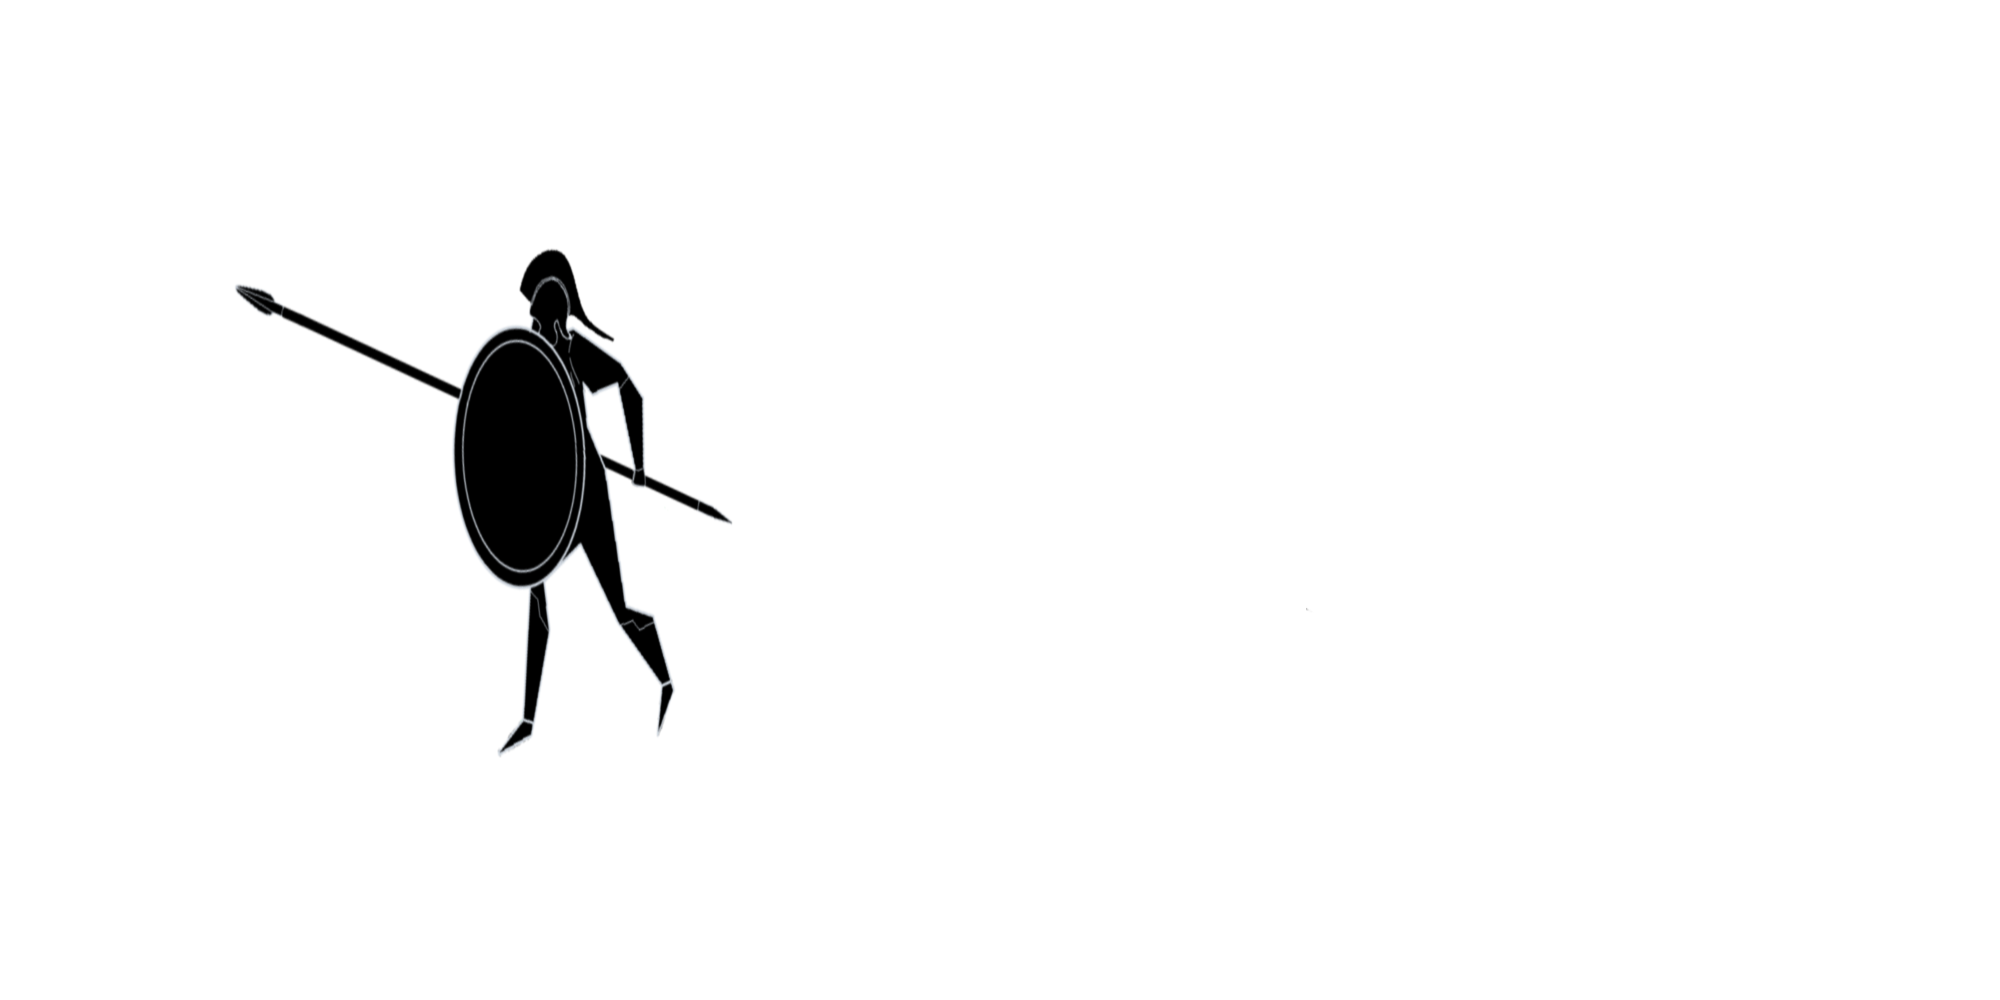
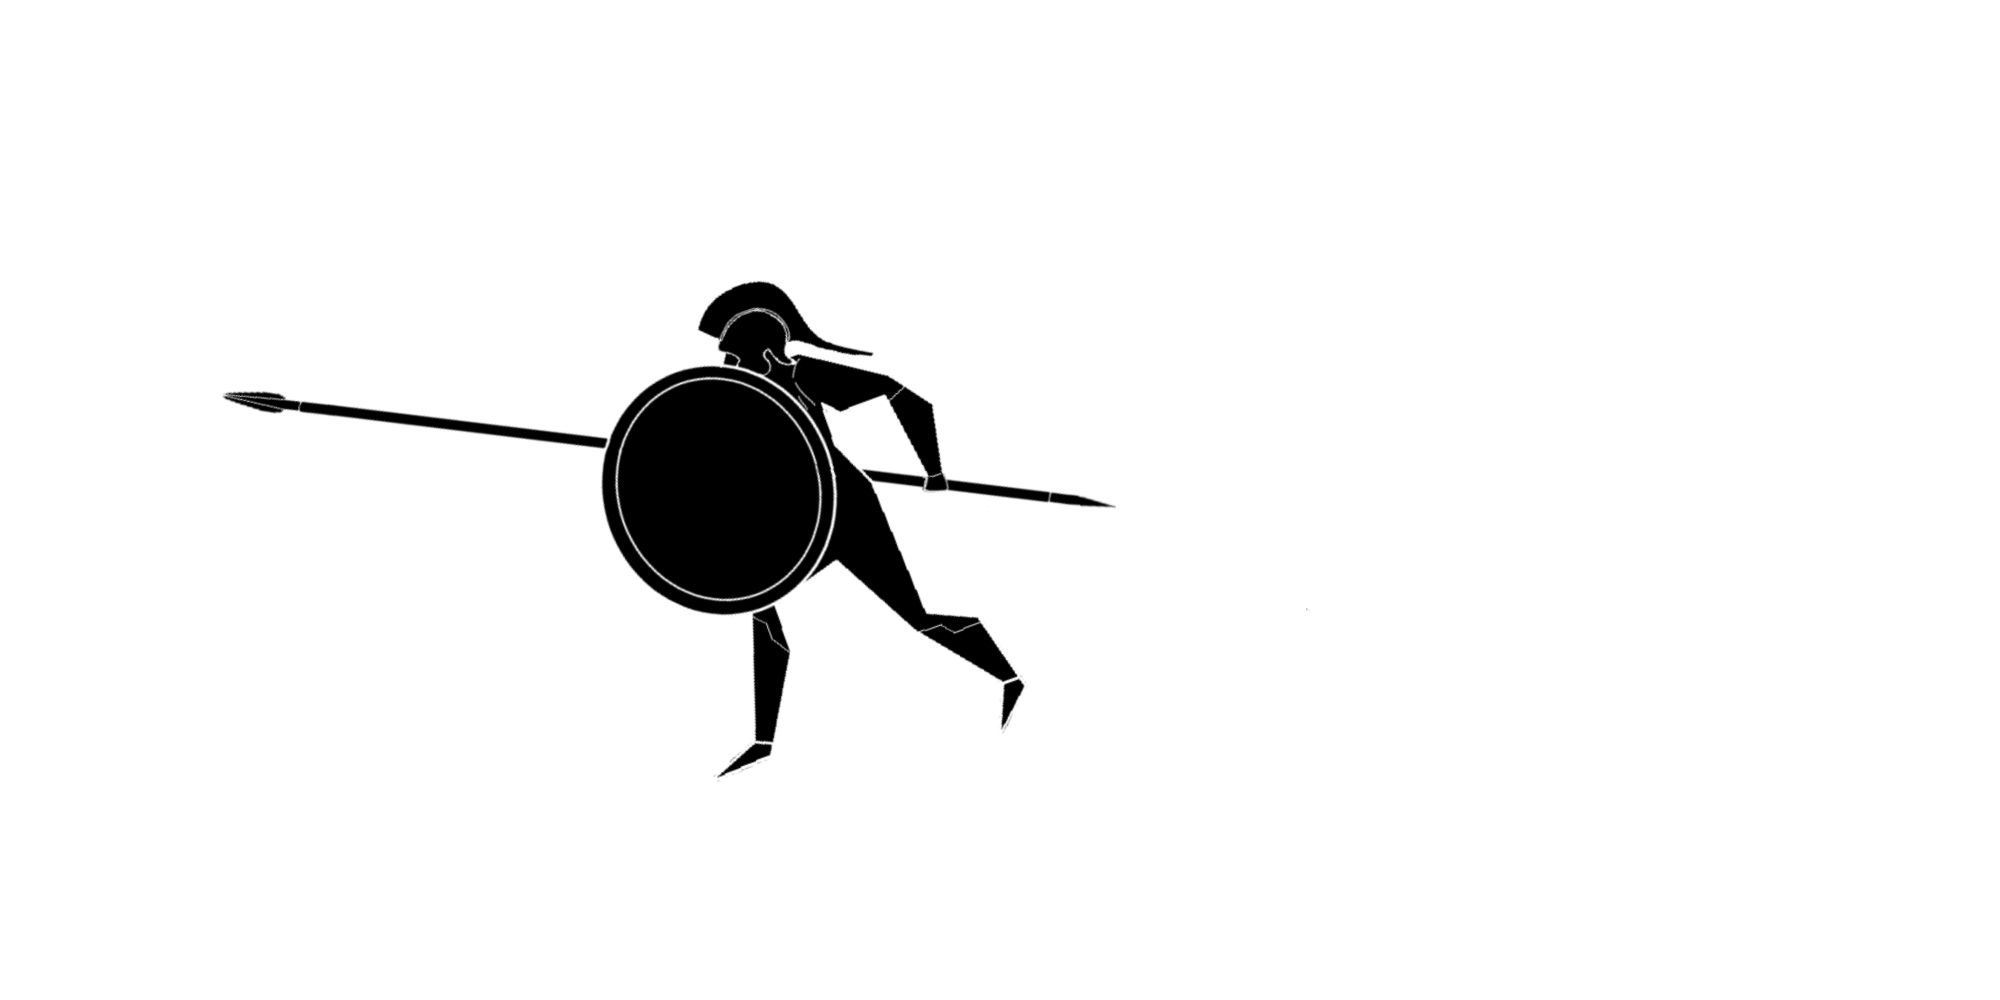
14/09/23-10am

Changed region(s): [[0.093, 0.248, 0.558, 0.775]]

diff --git a/libraries/phenakistoscope.bundle.js b/libraries/phenakistoscope.bundle.js
@@ -1,3 +1,3 @@
-const FRAME_RATE = 12
+const FRAME_RATE = 6
 
 !function(e){var n={};function t(i){if(n[i])return n[i].exports;var o=n[i]={i:i,l:!1,exports:{}};return e[i].call(o.exports,o,o.exports,t),o.l=!0,o.exports}t.m=e,t.c=n,t.d=function(e,n,i){t.o(e,n)||Object.defineProperty(e,n,{enumerable:!0,get:i})},t.r=function(e){"undefined"!=typeof Symbol&&Symbol.toStringTag&&Object.defineProperty(e,Symbol.toStringTag,{value:"Module"}),Object.defineProperty(e,"__esModule",{value:!0})},t.t=function(e,n){if(1&n&&(e=t(e)),8&n)return e;if(4&n&&"object"==typeof e&&e&&e.__esModule)return e;var i=Object.create(null);if(t.r(i),Object.defineProperty(i,"default",{enumerable:!0,value:e}),2&n&&"string"!=typeof e)for(var o in e)t.d(i,o,function(n){return e[n]}.bind(null,o));return i},t.n=function(e){var n=e&&e.__esModule?function(){return e.default}:function(){return e};return t.d(n,"a",n),n},t.o=function(e,n){return Object.prototype.hasOwnProperty.call(e,n)},t.p="",t(t.s=0)}([function(e,n,t){e.exports=t(1)},function(e,n,t){"use strict";t.r(n);var i=new function(){this.phenakistoscope=void 0,this.ccapturer=void 0,this.p5=void 0,this.gfx=void 0,this.canvas=void 0};function o(e,n){for(var t=0;t<n.length;t++){var i=n[t];i.enumerable=i.enumerable||!1,i.configurable=!0,"value"in i&&(i.writable=!0),Object.defineProperty(e,i.key,i)}}var a=function(){function e(n){!function(e,n){if(!(e instanceof n))throw new TypeError("Cannot call a class as a function")}(this,e),this._total_images_to_load=0,this._loaded_images=0,this._images={},this._image_sequences={}}var n,t,a;return n=e,(t=[{key:"load_image",value:function(e,n){this._total_images_to_load++,this._images[e]=i.p5.loadImage("./assets/"+e+"."+n,this.image_loaded.bind(this))}},{key:"load_image_sequence",value:function(e,n,t){this._total_images_to_load+=t,this._image_sequences[e]=[];for(var i=0;i<t;++i)this._image_sequences[e][i]=loadImage("assets/"+e+"/"+e+"_"+i+"."+n,this.image_loaded.bind(this))}},{key:"draw_image",value:function(e,n,t,i){n.image(this._images[e],t,i)}},{key:"draw_image_from_sequence",value:function(e,n,t,i,o){var a=this._image_sequences[e].length,r=Math.floor(n*a)%a;t.image(this._image_sequences[e][r],i,o)}},{key:"all_images_loaded",value:function(){return this._loaded_images>=this._total_images_to_load}},{key:"image_loaded",value:function(){this._loaded_images++}}])&&o(n.prototype,t),a&&o(n,a),e}();function r(e,n){for(var t=0;t<n.length;t++){var i=n[t];i.enumerable=i.enumerable||!1,i.configurable=!0,"value"in i&&(i.writable=!0),Object.defineProperty(e,i.key,i)}}var s=function(){function e(n){!function(e,n){if(!(e instanceof n))throw new TypeError("Cannot call a class as a function")}(this,e),this._resolution=n,this._output_function=function(){},this._image_loader=new a,this._ccapturer=i.ccapturer,this._dynamic_scale=!1,this._lock_scale=!1,this._pre_render=function(){},this._post_render=function(){},this._draw_slits=!1}var n,t,o;return n=e,(t=[{key:"set_default_values",value:function(e){this._layers=[],this._resolution=e,this._wedge_size=1e3,this._print=!1,this._capture_frame=0,this._slice_count=20,this._direction=-1}},{key:"scale_for_screen",value:function(e){(e=void 0===e||e)&&!this._lock_scale?(setup_new_canvas(min(window.innerWidth,window.innerHeight),min(window.innerWidth,window.innerHeight)),this._dynamic_scale||(window.addEventListener("resize",this.scale_for_screen.bind(this)),this._dynamic_scale=!0)):(window.removeEventListener("resize",this.scale_for_screen.bind(this)),this._dynamic_scale=!1)}},{key:"draw",value:function(){if(this._image_loader.all_images_loaded()){this._pre_render();for(var e=0;e<this._layers.length;e++)this._current_layer=e,push(),this._layers[e].draw_boundaries=this._show_boundaries,this._output_function(this._layers[e]),pop();this._post_render()}}},{key:"render_slits",value:function(){if(this._draw_slits){push(),rotate(-90),stroke(0),noFill(),scale(.5),rotate(360/this._slice_count/2);for(var e=0;e<this._slice_count;e++)rotate(360/this._slice_count),rect(this._wedge_size-this._wedge_size/3,-15,this._wedge_size/3+50,30);pop()}}},{key:"draw_disk_mask",value:function(){push(),fill(255),stroke(0),strokeWeight(this.display_scale),beginShape(),vertex(-10,-10),vertex(width+10,-10),vertex(width+10,height+10),vertex(-10,height+10),beginContour();for(var e=this._wedge_size/2*this.display_scale,n=0;n<100;++n)vertex(width/2+cos(3.6*-n)*e,height/2+sin(3.6*-n)*e);endContour(),endShape(),pop()}},{key:"add_layer",value:function(e){this._layers.push(e),e.parent_pScope=this}},{key:"output_mode",value:function(e){this._output_function=e}},{key:"begin_capture_if_ready",value:function(){0==this._capture_frame&&this._ccapturer.start()}},{key:"capture",value:function(){this._capture_frame<this.slice_count?(this._ccapturer.capture(i.canvas),this._capture_frame++):this._capture_frame>=this.slice_count&&(this._ccapturer.stop(),this._ccapturer.save())}},{key:"set_direction",value:function(e){this._direction=e}},{key:"set_slice_count",value:function(e){this._slice_count=e}},{key:"draw_layer_boundaries",value:function(e){this._show_boundaries=e}},{key:"draw_slits",value:function(e){this._draw_slits=e}},{key:"fill_background",value:function(){var e;(e=this._layers[this._current_layer]).fill_background.apply(e,arguments)}},{key:"load_image",value:function(e,n){this._image_loader.load_image(e,n)}},{key:"load_image_sequence",value:function(e,n,t){this._image_loader.load_image_sequence(e,n,t)}},{key:"draw_image",value:function(e,n,t){this._image_loader.draw_image(e,i.p5,n,t)}},{key:"draw_image_from_sequence",value:function(e,n,t,o){this._image_loader.draw_image_from_sequence(e,o,i.p5,n,t)}},{key:"print",set:function(e){this._print=e},get:function(){return this._print}},{key:"pre_render",set:function(e){this._pre_render=e}},{key:"post_render",set:function(e){this._post_render=e}},{key:"lock_scale",set:function(e){this._lock_scale=e}},{key:"resolution",get:function(){return this._resolution}},{key:"frame",get:function(){return this._frame}},{key:"slice_count",get:function(){return this._slice_count}},{key:"direction",get:function(){return this._direction}},{key:"display_scale",get:function(){return this._print?1:this._resolution/(this._wedge_size+0)}},{key:"slice_angle",get:function(){return 360/this._slice_count}},{key:"wedge_size",get:function(){return this._wedge_size}}])&&r(n.prototype,t),o&&r(n,o),e}(),u=function(e){return function(n){var t,i,o;push(),c(e),n.set_animation_variables(0),push(),n.draw_function(0,0,e),pop(),t=0,i=0,o=2,push(),stroke(255,0,0),line(t,i,t-o,i-o),line(t,i,t+o,i-o),line(t,i,t-o,i+o),line(t,i,t+o,i+o),pop(),pop()}},_=function(e){return function(n,t){t=void 0===t?0:t,push(),c(e),rotate(t),function(e,n){push(),scale(.5);for(var t=e.slice_angle,i=0;i<e.slice_count;i++)push(),rotate(i*t),l(e,n,i),pop();pop()}(e,n),pop(),push(),c(e),e.render_slits(),pop(),push(),e.draw_disk_mask(),pop()}};function c(e){translate(width/2,height/2),scale(e.display_scale,e.display_scale)}function l(e,n,t){push(),n.animation_function(t,n.boundary.low,n.boundary.high),pop(),n.draw_boundry()}var d=function(e){return function(n){push(),this.set_animation_variables(n/(e.slice_count+0)),this.background_function(this.animation_variables,e),this.draw_function(0,0,this.animation_variables,e),pop()}};function h(e){return(h="function"==typeof Symbol&&"symbol"==typeof Symbol.iterator?function(e){return typeof e}:function(e){return e&&"function"==typeof Symbol&&e.constructor===Symbol&&e!==Symbol.prototype?"symbol":typeof e})(e)}function f(e,n){for(var t=0;t<n.length;t++){var i=n[t];i.enumerable=i.enumerable||!1,i.configurable=!0,"value"in i&&(i.writable=!0),Object.defineProperty(e,i.key,i)}}function p(){}var y=function(){function e(n){for(var t=this,o=arguments.length,a=new Array(o>1?o-1:0),r=1;r<o;r++)a[r-1]=arguments[r];!function(e,n){if(!(e instanceof n))throw new TypeError("Cannot call a class as a function")}(this,e),n=n||p,this._draw_function=n.bind(this);var s=h(a[0]);this._background_function="function"===s?a[0].bind(this):"undefined"!==s?function(){var e;return(e=t.fill_background).call.apply(e,[t].concat(a))}:function(){},this._animation_function=d(i.phenakistoscope).bind(this),this._do_draw_boundaries=!0,this.set_boundary(0,1e3),i.phenakistoscope.add_layer(this)}var n,t,o;return n=e,(t=[{key:"set_boundary",value:function(e,n){this._bounds={low:e,high:n}}},{key:"set_animation_variables",value:function(e){this._animation_variables={frame:e,wave:function(n){return n=void 0===n?1:n,(i.p5.sin(360*e*n)+1)/2}}}},{key:"mode",value:function(e){this._animation_function=e.bind(this)}},{key:"fill_background",value:function(){push(),fill.apply(void 0,arguments),stroke.apply(void 0,arguments),this.draw_wedge(),pop()}},{key:"draw_boundry",value:function(){this._do_draw_boundaries&&(noFill(),stroke(0),this.draw_wedge())}},{key:"draw_wedge",value:function(){push(),rotate(-90),beginShape(),this.arc(this.boundary.high,1),this.arc(this.boundary.low,-1),endShape(i.p5.CLOSE),pop()}},{key:"arc",value:function(e,n){for(var t=-n*this._pScope.slice_angle/2,i=n*this._pScope.slice_angle/20,o=0;o<=20;++o)vertex(cos(t)*e,sin(t)*e),t+=i}},{key:"parent_pScope",set:function(e){this._pScope=e}},{key:"draw_boundaries",set:function(e){this._do_draw_boundaries=e}},{key:"draw_function",get:function(){return this._draw_function}},{key:"animation_function",get:function(){return this._animation_function}},{key:"background_function",get:function(){return this._background_function}},{key:"boundary",get:function(){return this._bounds}},{key:"animation_variables",get:function(){return this._animation_variables}}])&&f(n.prototype,t),o&&f(n,o),e}(),w=function(e){window.PLayer=y,window.SYMBOL_ONLY=u(e),window.STATIC_FRAME=function(e){return function(n){push(),c(e),translate(0,e._wedge_size/2),n.draw_boundry(),n.animation_function(0,n.boundary.low,n.boundary.high),pop()}}(e),window.ANIMATED_FRAME=function(e){return function(n){push(),c(e),translate(0,e._wedge_size/2),n.draw_boundry(),n.animation_function(frameCount%e.slice_count,n.boundary.low,n.boundary.high),pop()}}(e),window.STATIC_DISK=_(e),window.ANIMATED_DISK=function(e){return function(n){push();var t=frameCount%e.slice_count;STATIC_DISK(n,e.direction*e.slice_angle*t),pop()}}(e),window.OUTPUT_GIF=function(e){return function(n){return setup_new_canvas(n,n),e.scale_for_screen(!1),e.lock_scale=!0,e.pre_render=function(){e.begin_capture_if_ready()},e.post_render=function(){e.capture()},function(e){ANIMATED_DISK(e)}}}(e),window.OUTPUT_PRINT=function(e){return function(n){return n=void 0===n?{x:2480,y:3508}:n,setup_new_canvas(n.x,n.y),e.scale_for_screen(!1),e.lock_scale=!0,function(e){push(),STATIC_DISK(e,0),pop()}}}(e),window.SWIRL=function(e){return function(n){return function(t,i,o){var a=(o-i)/(n+0);this.set_animation_variables(t/e.slice_count),this.background_function(this.animation_variables,e);for(var r=0;r<n;++r){var s=-(i+(r*a+lerp(0,a,t/e.slice_count)));this.set_animation_variables((abs(s)-i)/abs(o-i)),push(),translate(0,s),this.draw_function(0,0,this.animation_variables,e),pop()}}}}(e),window.RING=d(e),window.CW=1,window.CCW=-1,window.A4={x:2480,y:3508},window.A3={x:3508,y:4960}},g=new p5;window.setup=function(){angleMode(DEGREES),imageMode(CENTER),frameRate(FRAME_RATE),pixelDensity(1),i.ccapturer=new CCapture({format:"gif",workersPath:"./libraries/",framerate:FRAME_RATE,verbose:!0}),i.phenakistoscope=new s(1e3),w(i.phenakistoscope),setup_new_canvas(i.phenakistoscope.resolution,i.phenakistoscope.resolution),setup_pScope(i.phenakistoscope)},window.draw=function(){background(255),i.phenakistoscope.draw()},window.setup_new_canvas=function(e,n){i.p5=g,i.gfx=createCanvas(e,n).drawingContext,i.canvas=i.gfx.canvas;var t=Math.min(e,n);i.phenakistoscope.set_default_values(.9*t),setup_layers(i.phenakistoscope)}}]);

diff --git a/my_phenakistoscope.js b/my_phenakistoscope.js
@@ -10,7 +10,7 @@ function setup_pScope(pScope){
   pScope.set_direction(CCW);
   pScope.set_slice_count(SLICE_COUNT);
   pScope.load_image("heart_circle","png")
-  pScope.load_image_sequence("hoplite","png",12)
+  pScope.load_image_sequence("hoplite","png",24)
   pScope.load_image("Ring","png")
 
 }
@@ -19,37 +19,34 @@ function setup_layers(pScope){
 
   new PLayer(null, 220);  //lets us draw the whole circle background, ignoring the boundaries
 
-  var layer1 = new PLayer(faces);
+  var layer1 = new PLayer(hoplite);
   layer1.mode( RING );
-  layer1.set_boundary( 200, 800 );
+  layer1.set_boundary( 200, 1000 );
 
-  var layer2 = new PLayer(squares);
+  var layer2 = new PLayer(spears);
   layer2.mode( RING );
   layer2.set_boundary( 0, 400 );
 
-  var layer3 = new PLayer(pattern);
-  layer3.mode( RING );
-  layer3.set_boundary( 800, 1000 );
 }
 
-function faces(x, y, animation, pScope){
+function hoplite(x, y, animation, pScope){
   fill(179, 134, 75)
 arc(x,y,2000,2000,backgroundArcStart,backgroundArcEnd);
-  scale(.25);
 
-pScope.draw_image_from_sequence("hoplite",0,-2800,animation.frame)
+  scale(.25,.3);
+pScope.draw_image_from_sequence("hoplite",0,-2250,animation.frame)
 }
 
-function squares(x, y, animation, pScope){
+function spears(x, y, animation, pScope){
 
   // this is how you set up a background for a specific layer
 
   fill(149, 105, 58)
-  arc(x,y,800,800,backgroundArcStart,backgroundArcEnd); // draws "pizza slice" in the background
+  arc(x,y,900,900,backgroundArcStart,backgroundArcEnd); // draws "pizza slice" in the background
 
-  fill(10)
+  fill(50,20,0)
  strokeWeight(.25)
-stroke(255)
+stroke(225)
 //main spear
 rect(-5,-200-animation.wave()*200,10,200) // .wave is a cosine wave btw
 arc(0,-200-animation.wave()*200,15,30,0,180)
@@ -69,12 +66,7 @@ arc(40,-270-animation.wave()*200,10,100,180,0)
 scale(1.38)
 if (animation.frame < 1/SLICE_COUNT){
 pScope.draw_image("Ring",0,0);}
-scale(.5)
+scale(.56)
 if (animation.frame < 1/SLICE_COUNT){
   pScope.draw_image("Ring",0,0);}
-}
-function pattern(x, y, animation, pScope){
-
- 
-
 }
